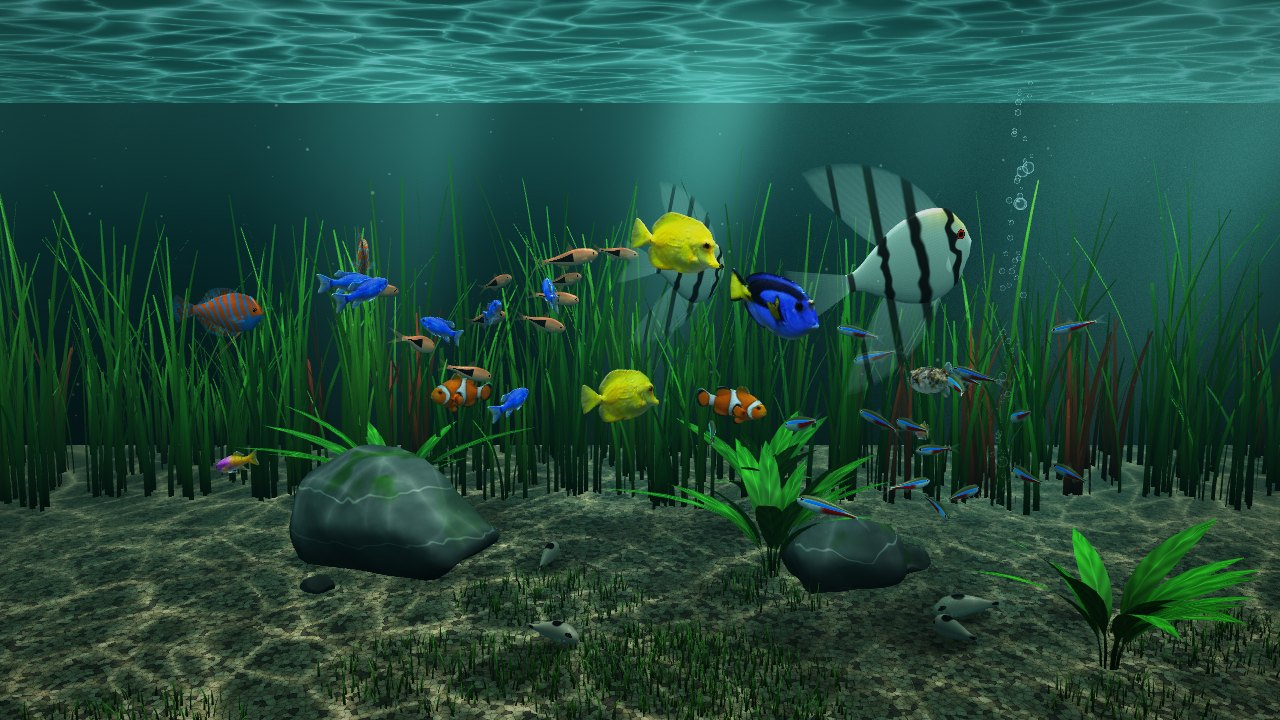
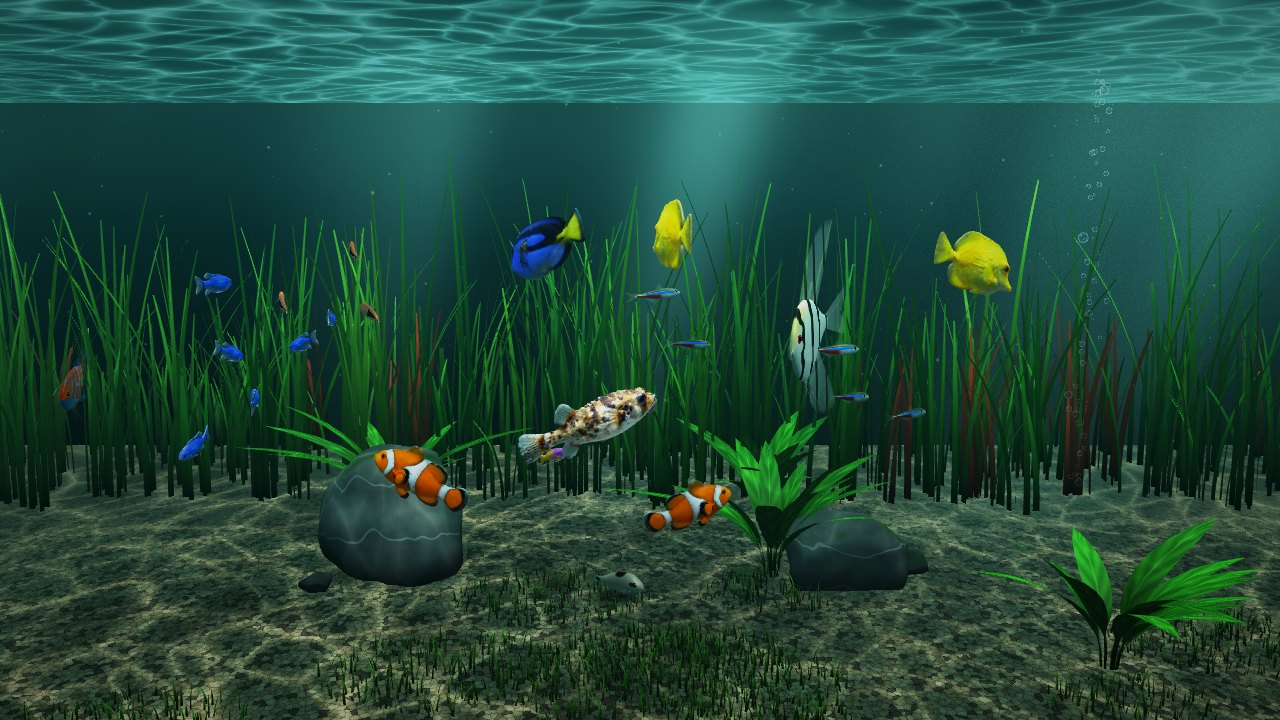
Fish Tank: half as many fish, mostly the Reef Glass ones
50 fish down to 25. All 14 of Reef Glass's photo-real fish stay (two
clownfish, a blue tang, two yellow tangs, six blue damselfish, two royal
grammas, a pufferfish); the built-in ones go from 36 to 11, one of each
kind still there: 5 neon tetras, 3 harlequin rasboras, a dwarf gourami, an
angelfish and a panda cory. New screenshot for the website.

Claude-Session: https://claude.ai/code/session_015PQ61XxK8DufFAzhJgU6J7

diff --git a/system_files/usr/lib/firox/python/firox_fishtank.py b/system_files/usr/lib/firox/python/firox_fishtank.py
@@ -707,35 +707,35 @@ class Species:
 
 
 SPECIES = [
-    Species(0, "neon tetra", 18, 0.95, 1.05, 2.8, (1.8, 7.5), True, 4.6, 0.075, 2.2, 3.2,
+    Species(0, "neon tetra", 5, 0.95, 1.05, 2.8, (1.8, 7.5), True, 4.6, 0.075, 2.2, 3.2,
             [(0, 0.004, 0.003, 0), (0.02, 0.045, 0.03, 0), (0.1, 0.095, 0.058, 0.0),
              (0.32, 0.125, 0.066, 0.0), (0.58, 0.1, 0.052, -0.005), (0.8, 0.055, 0.03, 0),
              (0.93, 0.04, 0.018, 0), (1.0, 0.045, 0.01, 0)],
             (0.085, 0.3, 0.032), (0.55, 0.65, 0.75),
             dict(tail=(0.26, 0.15, 0.6, 0.0), dorsal=(0.38, 0.52, 0.14, 0.5, 0.25),
                  anal=(0.55, 0.8, 0.09, 0.4, 0.2), pect=(0.2, 0.12))),
-    Species(1, "harlequin rasbora", 10, 1.05, 0.9, 2.4, (2.5, 8.5), True, 4.4, 0.07, 2.0, 3.0,
+    Species(1, "harlequin rasbora", 3, 1.05, 0.9, 2.4, (2.5, 8.5), True, 4.4, 0.07, 2.0, 3.0,
             [(0, 0.004, 0.003, 0), (0.02, 0.05, 0.03, 0), (0.1, 0.11, 0.055, 0.0),
              (0.35, 0.15, 0.06, 0.0), (0.6, 0.12, 0.05, -0.01), (0.82, 0.06, 0.03, 0),
              (0.94, 0.045, 0.016, 0), (1.0, 0.05, 0.01, 0)],
             (0.08, 0.3, 0.03), (0.75, 0.55, 0.35),
             dict(tail=(0.28, 0.17, 0.65, 0.0), dorsal=(0.42, 0.56, 0.15, 0.5, 0.25),
                  anal=(0.55, 0.78, 0.1, 0.4, 0.2), pect=(0.2, 0.12))),
-    Species(2, "dwarf gourami", 2, 1.55, 0.55, 1.6, (2.5, 8.0), False, 3.8, 0.05, 1.5, 1.6,
+    Species(2, "dwarf gourami", 1, 1.55, 0.55, 1.6, (2.5, 8.0), False, 3.8, 0.05, 1.5, 1.6,
             [(0, 0.005, 0.004, 0), (0.03, 0.08, 0.04, 0), (0.15, 0.2, 0.06, 0.0),
              (0.4, 0.24, 0.07, 0.0), (0.65, 0.18, 0.055, 0.0), (0.85, 0.09, 0.03, 0),
              (1.0, 0.065, 0.012, 0)],
             (0.085, 0.3, 0.03), (0.85, 0.35, 0.15),
             dict(tail=(0.3, 0.2, 0.0, 0.35), dorsal=(0.3, 0.92, 0.13, 0.35, 0.7),
                  anal=(0.28, 0.95, 0.15, 0.3, 0.75), pect=(0.22, 0.14), feelers=(0.3, 0.75))),
-    Species(3, "angelfish", 2, 2.4, 0.42, 1.2, (3.2, 7.8), False, 3.2, 0.035, 1.1, 1.0,
+    Species(3, "angelfish", 1, 2.4, 0.42, 1.2, (3.2, 7.8), False, 3.2, 0.035, 1.1, 1.0,
             [(0, 0.008, 0.005, 0), (0.04, 0.12, 0.03, 0.02), (0.16, 0.28, 0.045, 0.02),
              (0.36, 0.34, 0.05, 0.0), (0.58, 0.29, 0.042, 0.0), (0.78, 0.17, 0.028, 0),
              (0.92, 0.08, 0.016, 0), (1.0, 0.07, 0.01, 0)],
             (0.1, 0.32, 0.035), (0.85, 0.15, 0.08),
             dict(tail=(0.42, 0.26, 0.3, 0.1), dorsal=(0.22, 0.72, 0.62, 0.75, 0.88),
                  anal=(0.3, 0.74, 0.6, 0.75, 0.88), pect=(0.22, 0.1), feelers=(0.3, 0.9))),
-    Species(4, "panda cory", 4, 1.2, 0.45, 1.4, (0.18, 0.5), False, 4.0, 0.05, 1.8, 1.8,
+    Species(4, "panda cory", 1, 1.2, 0.45, 1.4, (0.18, 0.5), False, 4.0, 0.05, 1.8, 1.8,
             [(0, 0.006, 0.006, 0.0), (0.04, 0.08, 0.07, 0.01), (0.18, 0.16, 0.12, 0.03),
              (0.4, 0.18, 0.12, 0.04), (0.68, 0.12, 0.075, 0.02), (0.88, 0.055, 0.035, 0.0),
              (1.0, 0.05, 0.012, 0)],
